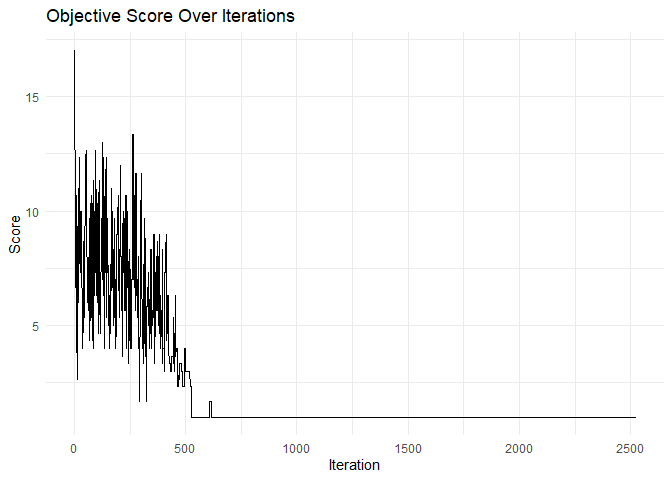
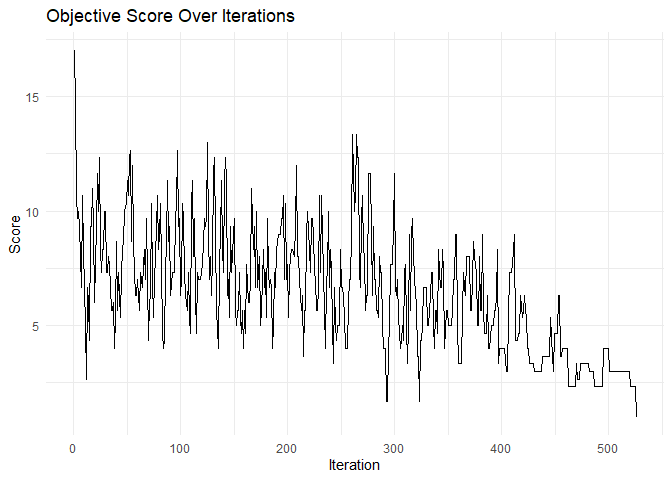
Updating to quarto README and automatic date

diff --git a/README.md b/README.md
@@ -1,5 +1,6 @@
 
-<!-- README.md is generated from README.Rmd. Please edit that file -->
+
+<!-- README.md is generated from README.qmd. Please edit that file -->
 
 # speed - Spatially Efficient Experimental Designs <a href="https://biometryhub.github.io/speed/"><img src="man/figures/logo.svg" align="right" height="139" alt="speed website" /></a>
 
@@ -93,8 +94,6 @@ treatments:
 
 ``` r
 library(speed)
-#> A newer version of speed is available on GitHub (installed: 0.0.10, available: 0.0.11).
-#> Update with: devtools::install_github("biometryhub/speed")
 
 # Create a simple design with 3 replicates of 4 treatments
 df <- data.frame(
@@ -107,15 +106,13 @@ df <- data.frame(
 result <- speed(df, "treatment", seed = 42)
 #> row and col are used as row and column, respectively.
 #> Optimising level: single treatment within whole design 
-#> Level: single treatment within whole design Iteration: 1000 Score: 1 Best: 1 Since Improvement: 475 
-#> Level: single treatment within whole design Iteration: 2000 Score: 1 Best: 1 Since Improvement: 1475 
-#> Early stopping at iteration 2525 for level single treatment within whole design
+#> Optimal score reached at iteration 526 for level single treatment within whole design
 
 # Plot the optimised design
 autoplot(result)
 ```
 
-<img src="man/figures/README-example-1.png" alt="" width="100%" />
+<img src="man/figures/README-example-1.png" style="width:100.0%" />
 
 ``` r
 
@@ -123,7 +120,9 @@ autoplot(result)
 plot_progress(result)
 ```
 
-<img src="man/figures/README-example-2.png" alt="" width="100%" /><img src="man/figures/README-example-3.png" alt="" width="100%" />
+<img src="man/figures/README-example-2.png" style="width:100.0%" />
+
+<img src="man/figures/README-example-3.png" style="width:100.0%" />
 
 ### Blocked design
 
@@ -147,15 +146,13 @@ result <- speed(df,
 )
 #> row and col are used as row and column, respectively.
 #> Optimising level: single treatment within block 
-#> Level: single treatment within block Iteration: 1000 Score: 2.571429 Best: 2.571429 Since Improvement: 543 
-#> Level: single treatment within block Iteration: 2000 Score: 2.571429 Best: 2.571429 Since Improvement: 1543 
-#> Early stopping at iteration 2457 for level single treatment within block
+#> Optimal score reached at iteration 458 for level single treatment within block
 
 # Plot the design with block boundaries
 autoplot(result)
 ```
 
-<img src="man/figures/README-blocks-1.png" alt="" width="100%" />
+<img src="man/figures/README-blocks-1.png" style="width:100.0%" />
 
 ### More Examples
 
@@ -202,24 +199,27 @@ for details).
 
 ## Citation
 
-If you use `speed` in your research, please cite:
+If you use `speed` in your work, please cite it by using:
 
-    Warning in citation("speed"): could not determine year for 'speed' from package
-    DESCRIPTION file
-    To cite package 'speed' in publications use:
+``` r
+citation("speed")
+```
 
-      Rogers S, Pipattungsakul W, Taylor J (????). _speed: Generate
-      Spatially Efficient Experimental Designs_. R package version 0.0.10,
-      <https://biometryhub.github.io/speed/>.
-
-    A BibTeX entry for LaTeX users is
-
-      @Manual{,
-        title = {speed: Generate Spatially Efficient Experimental Designs},
-        author = {Sam Rogers and Wasin Pipattungsakul and Julian Taylor},
-        note = {R package version 0.0.10},
-        url = {https://biometryhub.github.io/speed/},
-      }
+    #> To cite package 'speed' in publications use:
+    #> 
+    #>   Rogers S, Pipattungsakul W, Taylor J (2026). _speed: Generate
+    #>   Spatially Efficient Experimental Designs_. R package version 0.0.11,
+    #>   <https://biometryhub.github.io/speed/>.
+    #> 
+    #> A BibTeX entry for LaTeX users is
+    #> 
+    #>   @Manual{,
+    #>     title = {speed: Generate Spatially Efficient Experimental Designs},
+    #>     author = {Sam Rogers and Wasin Pipattungsakul and Julian Taylor},
+    #>     year = {2026},
+    #>     note = {R package version 0.0.11},
+    #>     url = {https://biometryhub.github.io/speed/},
+    #>   }
 
 ## License
 

diff --git a/CLAUDE.md b/CLAUDE.md
@@ -46,7 +46,7 @@ devtools::test()                     # run all testthat tests
 devtools::test(filter = "speed")     # run only tests/testthat/test-speed.R
 testthat::test_file("tests/testthat/test-metrics.R")  # run a single file
 devtools::check()                    # full R CMD check (must pass before PRs)
-devtools::build_readme()             # regenerate README.md from README.Rmd
+devtools::build_readme()             # regenerate README.md from README.qmd
 quarto::quarto_render("vignettes/speed.qmd")  # render a vignette (Quarto, not knitr)
 ```
 
